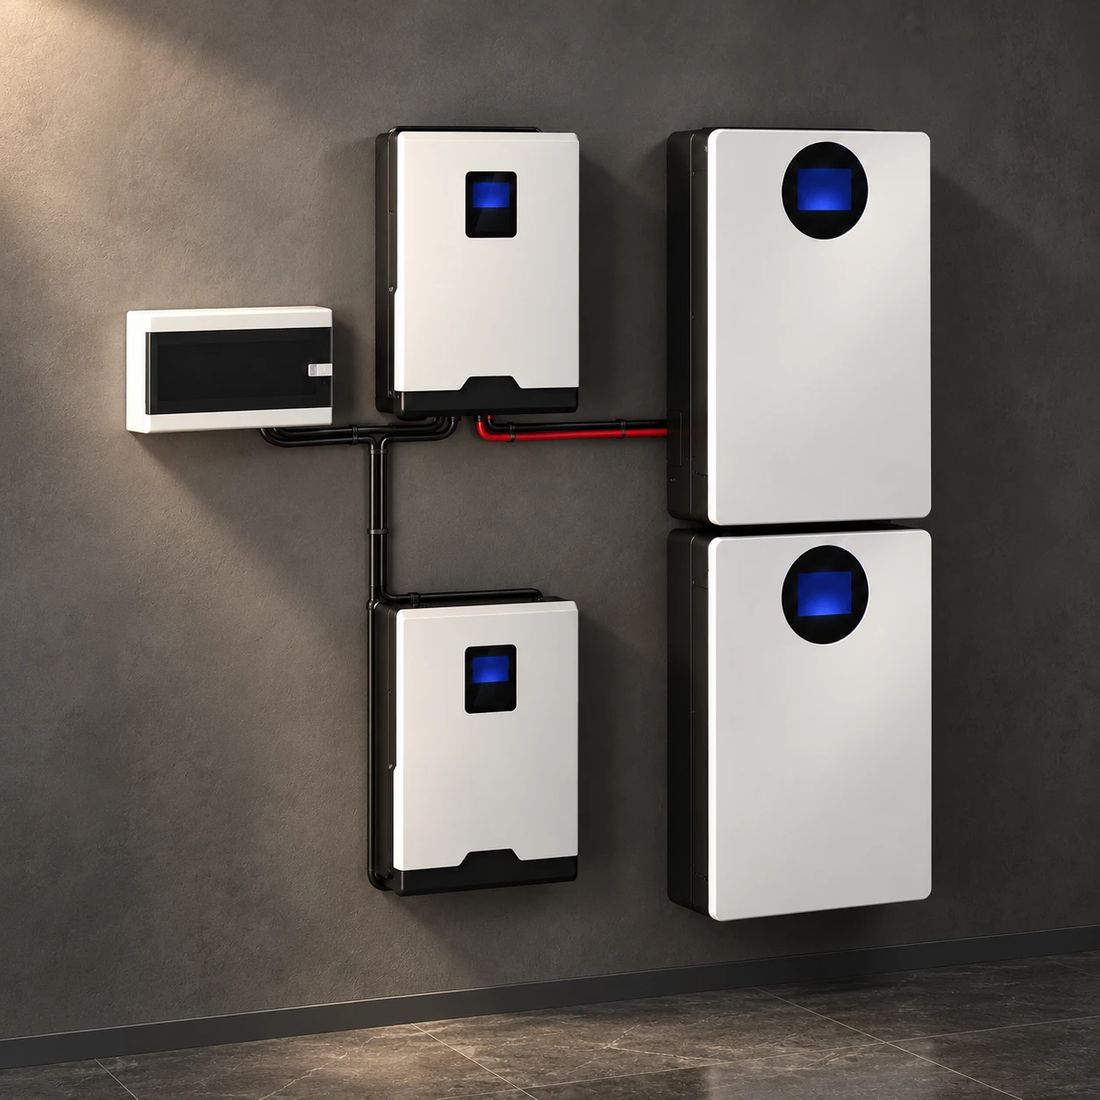
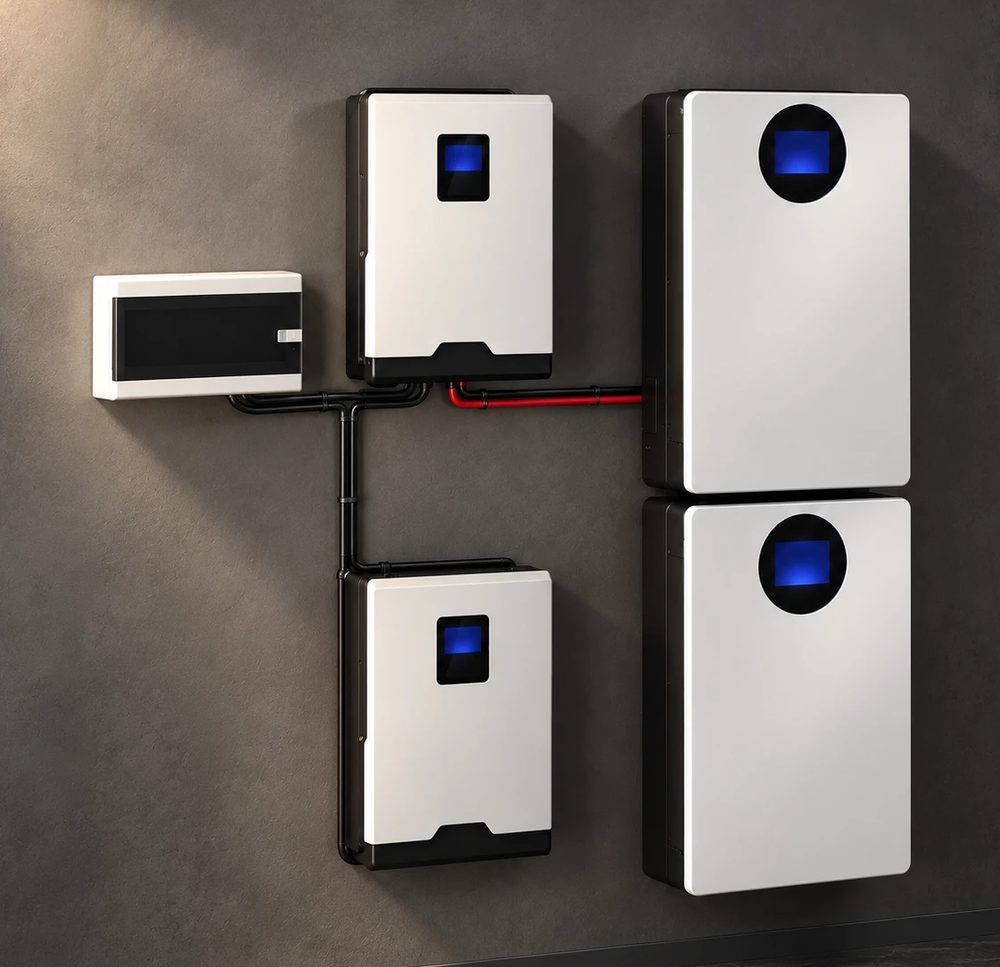
Первый экран: стена вокруг ИБП обрезана до небольшого поля
Фото обрезано по границам оборудования с запасом ~9% и растворяется по
краям во все стороны; на телефоне показывается целиком без обрезки.

Claude-Session: https://claude.ai/code/session_01QWDzhwhN9SwTNLQdJNPaux

diff --git a/css/styles.css b/css/styles.css
@@ -181,15 +181,16 @@ h1, h2, p { margin: 0; }
 
 /* левая сцена: фото ИБП на тёмной стене идёт от левого края и растворяется в доме справа и внизу */
 .hero__visual {
-  position: absolute; z-index: 0; top: 7%; bottom: 13%; left: 0; width: min(40%, 600px);
-  -webkit-mask-image: linear-gradient(90deg, #000 87%, rgba(0,0,0,.55) 93%, rgba(0,0,0,.2) 97%, transparent 100%), linear-gradient(180deg, transparent 0, #000 14%, #000 78%, rgba(0,0,0,.4) 90%, transparent 100%);
+  position: absolute; z-index: 0; left: max(16px, calc(var(--hero-px) - 28px)); top: 46%; translate: 0 -50%;
+  width: min(38%, 560px); aspect-ratio: 1000 / 967;
+  -webkit-mask-image: linear-gradient(90deg, transparent 0, #000 9%, #000 91%, transparent 100%), linear-gradient(180deg, transparent 0, #000 9%, #000 91%, transparent 100%);
   -webkit-mask-composite: source-in;
-          mask-image: linear-gradient(90deg, #000 87%, rgba(0,0,0,.55) 93%, rgba(0,0,0,.2) 97%, transparent 100%), linear-gradient(180deg, transparent 0, #000 14%, #000 78%, rgba(0,0,0,.4) 90%, transparent 100%);
+          mask-image: linear-gradient(90deg, transparent 0, #000 9%, #000 91%, transparent 100%), linear-gradient(180deg, transparent 0, #000 9%, #000 91%, transparent 100%);
           mask-composite: intersect;
 }
 .hero__ibp {
   position: absolute; inset: 0; width: 100%; height: 100%;
-  object-fit: cover; object-position: 50% 50%;
+  object-fit: cover;
   transition: filter 1s ease;
 }
 .hero.is-blackout .hero__ibp { filter: brightness(.35) saturate(.6); }
@@ -341,13 +342,10 @@ h1, h2, p { margin: 0; }
 @media (max-width: 900px) {
   .hero { --hero-px: 24px; display: flex; flex-direction: column; min-height: 0; }
   .hero__visual {
-    position: relative; inset: auto; width: auto; height: 380px;
-    margin: 0 calc(-1 * var(--hero-px));
-    -webkit-mask-image: linear-gradient(180deg, #000 60%, transparent 100%);
-            mask-image: linear-gradient(180deg, #000 60%, transparent 100%);
+    position: relative; left: auto; top: auto; translate: none;
+    width: min(88%, 460px); margin: 32px auto 0;
   }
-  .hero__ibp { object-position: 38% 50%; }
-  .hero__status { top: 330px; left: var(--hero-px); padding: 9px 16px 9px 12px; border-radius: 14px; }
+  .hero__status { top: 14px; left: var(--hero-px); padding: 9px 16px 9px 12px; border-radius: 14px; }
   .hero__status b { font-size: 13.5px; }
   .hero__content { padding: 12px 0 28px; max-width: none; }
   .hero__badges { margin-bottom: 24px; }
@@ -367,8 +365,6 @@ h1, h2, p { margin: 0; }
   :root { --gutter: 16px; --header-h: 68px; }
   .logo img { height: 32px; }
   .hero { --hero-px: 16px; }
-  .hero__visual { height: 340px; }
-  .hero__status { top: 290px; }
   .hero__title { font-size: 32px; }
   .hero__lead { font-size: 16.5px; }
   .hero__cta { flex-direction: column; align-items: stretch; gap: 14px; }

diff --git a/index.html b/index.html
@@ -94,7 +94,7 @@
     </div>
 
     <div class="hero__visual">
-      <img class="hero__ibp" src="assets/ibp-wall.jpg" alt="Система бесперебойного питания: инверторы, аккумуляторные модули и щит на стене" width="1100" height="1100" fetchpriority="high">
+      <img class="hero__ibp" src="assets/ibp-wall.jpg" alt="Система бесперебойного питания: инверторы, аккумуляторные модули и щит на стене" width="1000" height="967" fetchpriority="high">
     </div>
 
     <!-- «живая» плашка: показывает, что делает система при отключении сети.
